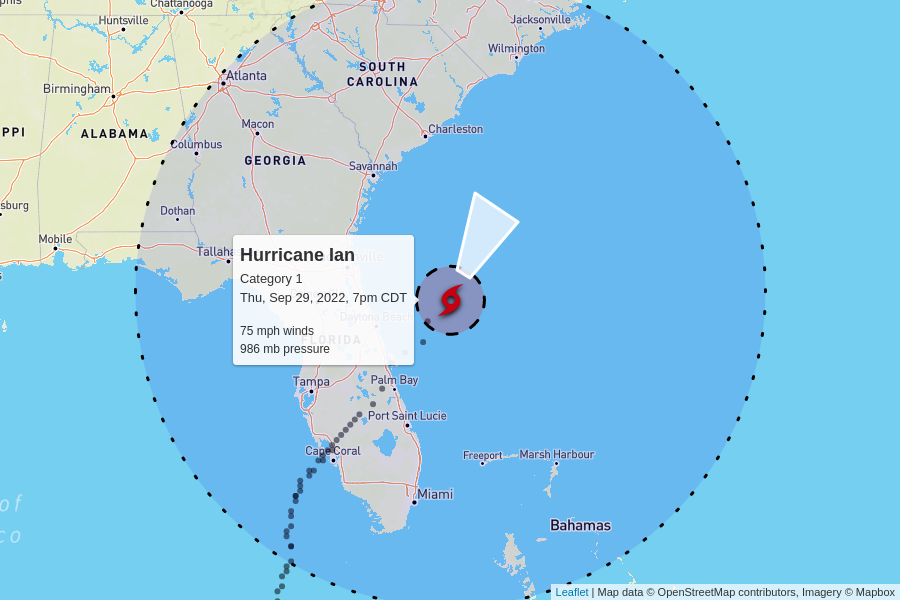
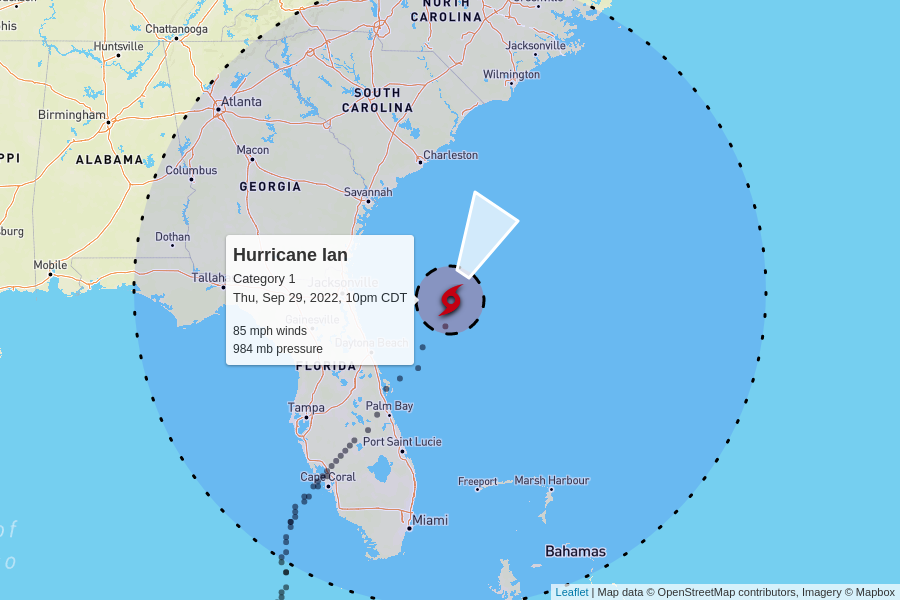
automatic update

diff --git a/docs/index.html b/docs/index.html
@@ -100,7 +100,7 @@
         <td colspan="6" class="storm category-1" >
           <h2>
             Hurricane Ian - Category 1
-            <p class="updated">last updated <span data-time>2022-09-30T00:00:00.000Z</span></p>
+            <p class="updated">last updated <span data-time>2022-09-30T03:15:00.000Z</span></p>
           </h2>
         </td>
       </tr>
@@ -115,8 +115,8 @@
       </tr>
       <tr>
         <td class="spacer"></td>
-        <td>75 mph</td>
-        <td>986 mb</td>
+        <td>85 mph</td>
+        <td>984 mb</td>
         <td>
           10 mph to the north-northeast
           <br/>
